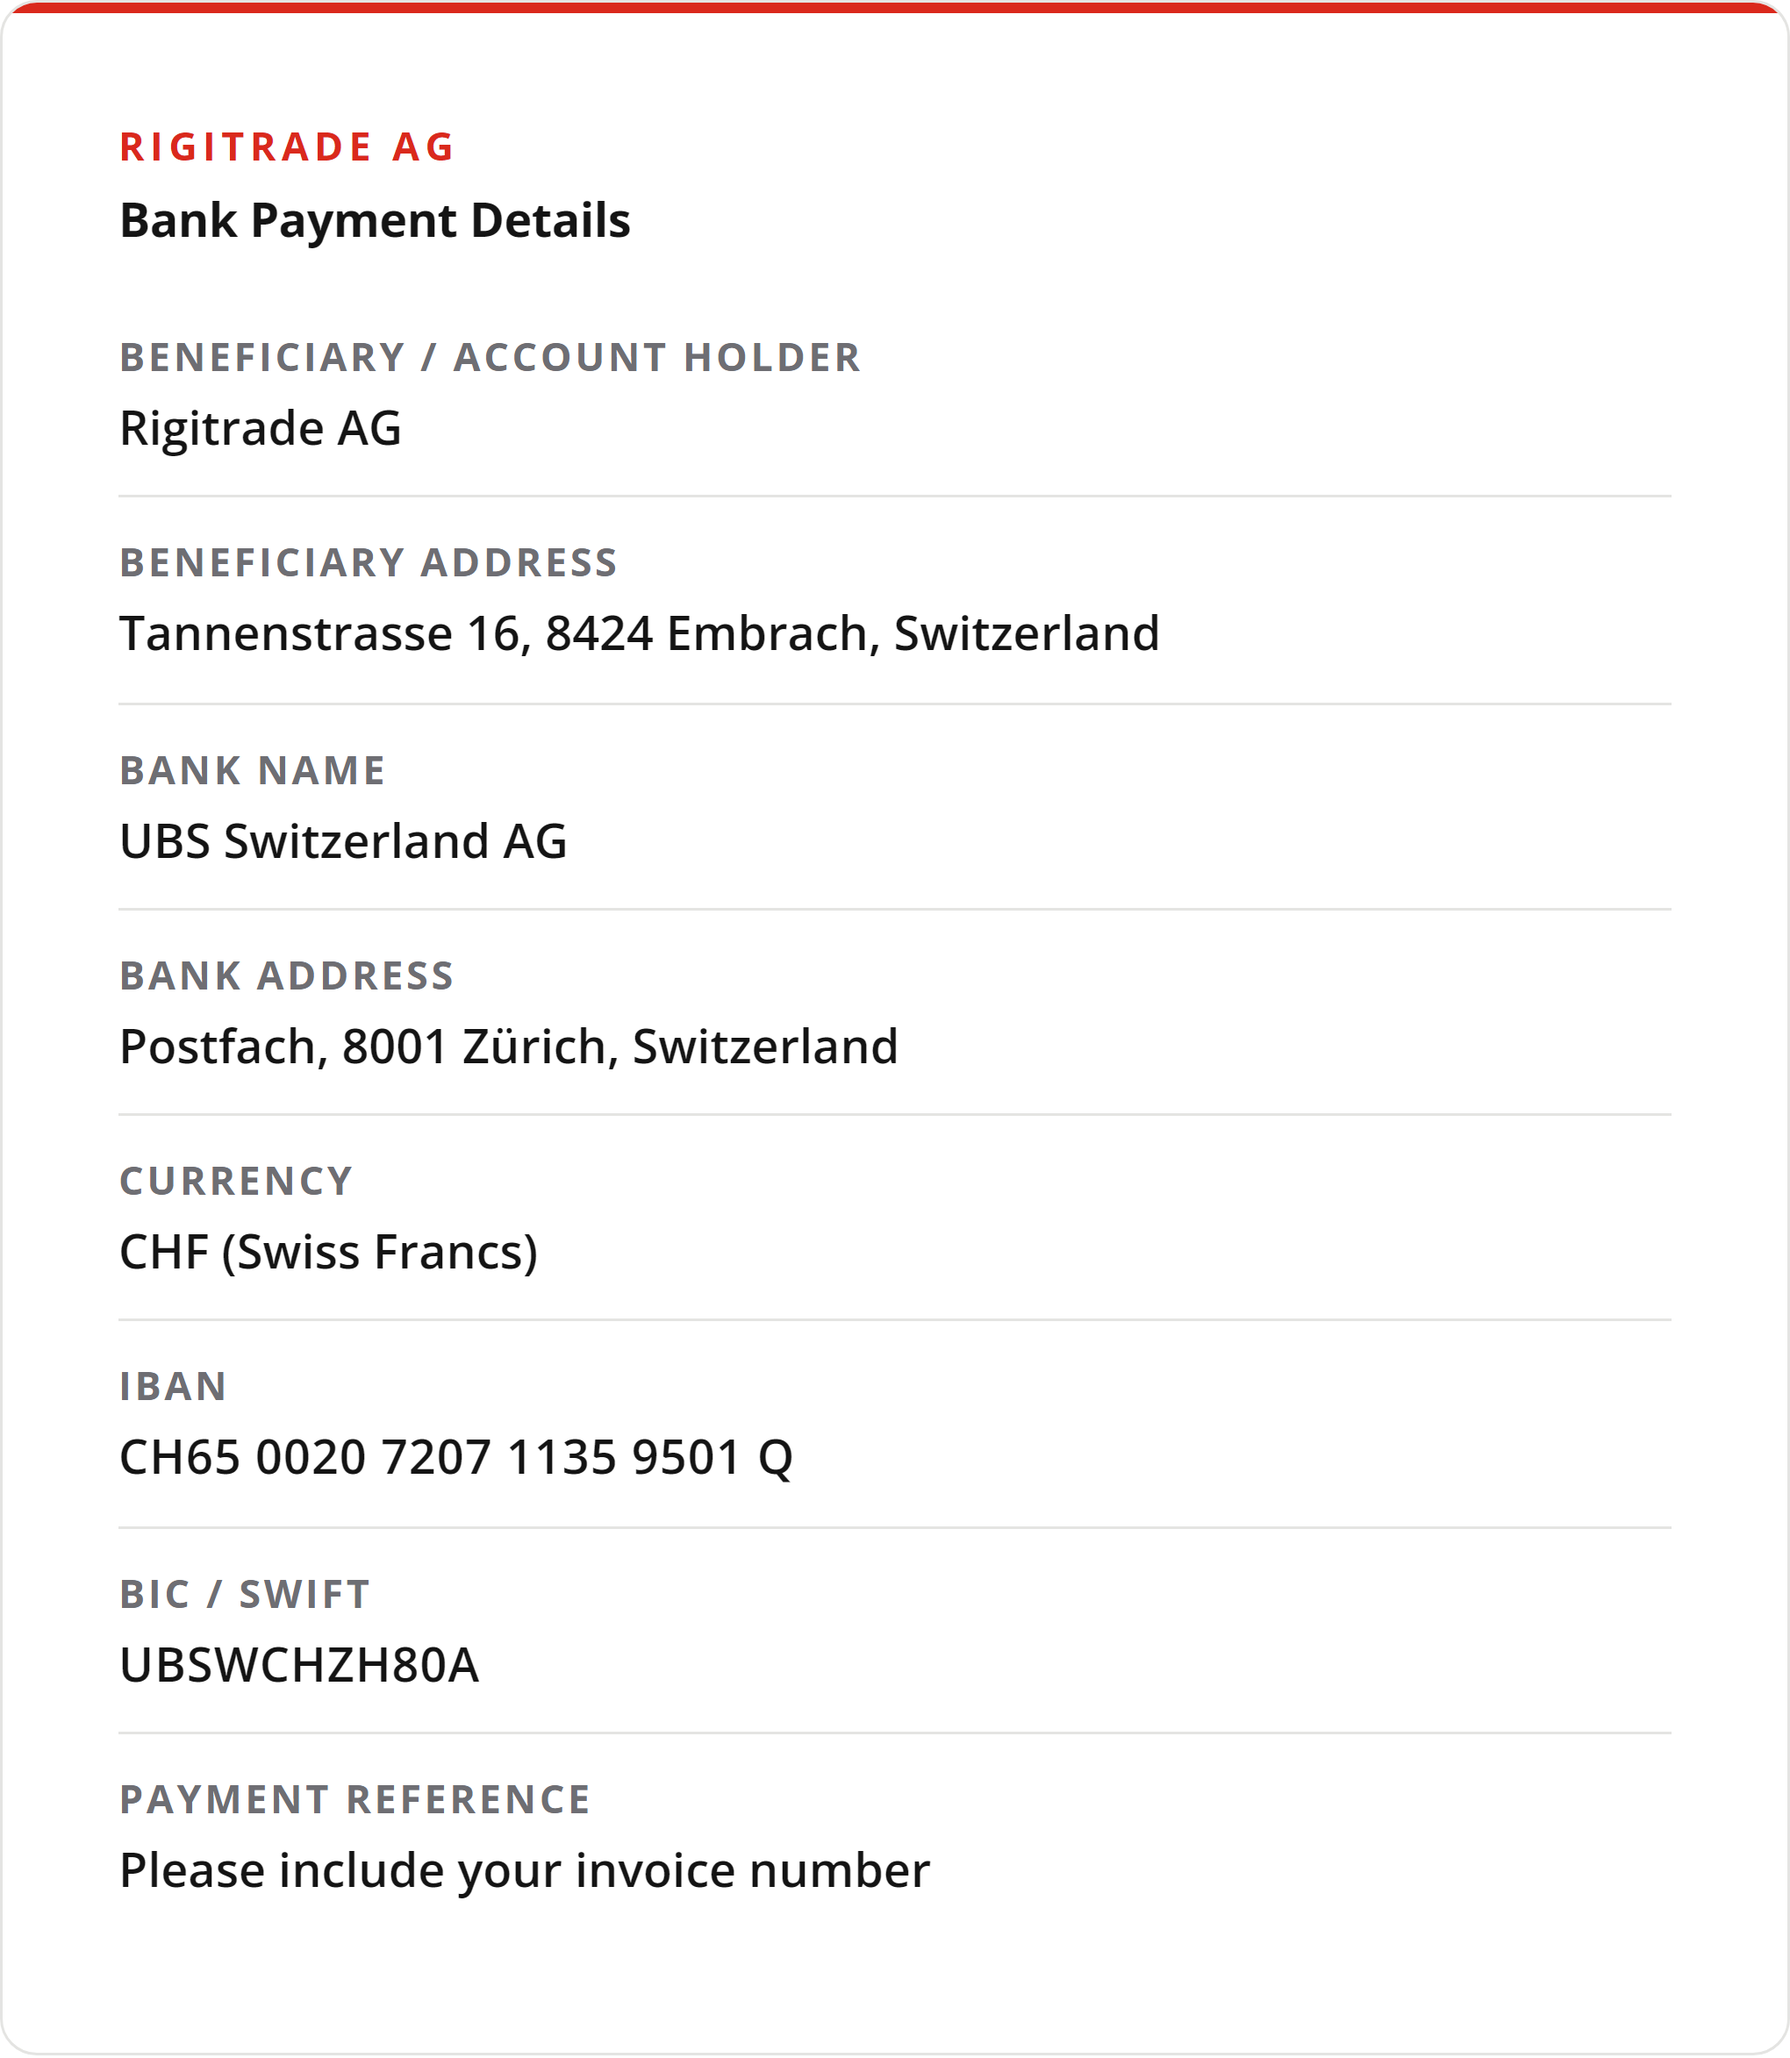
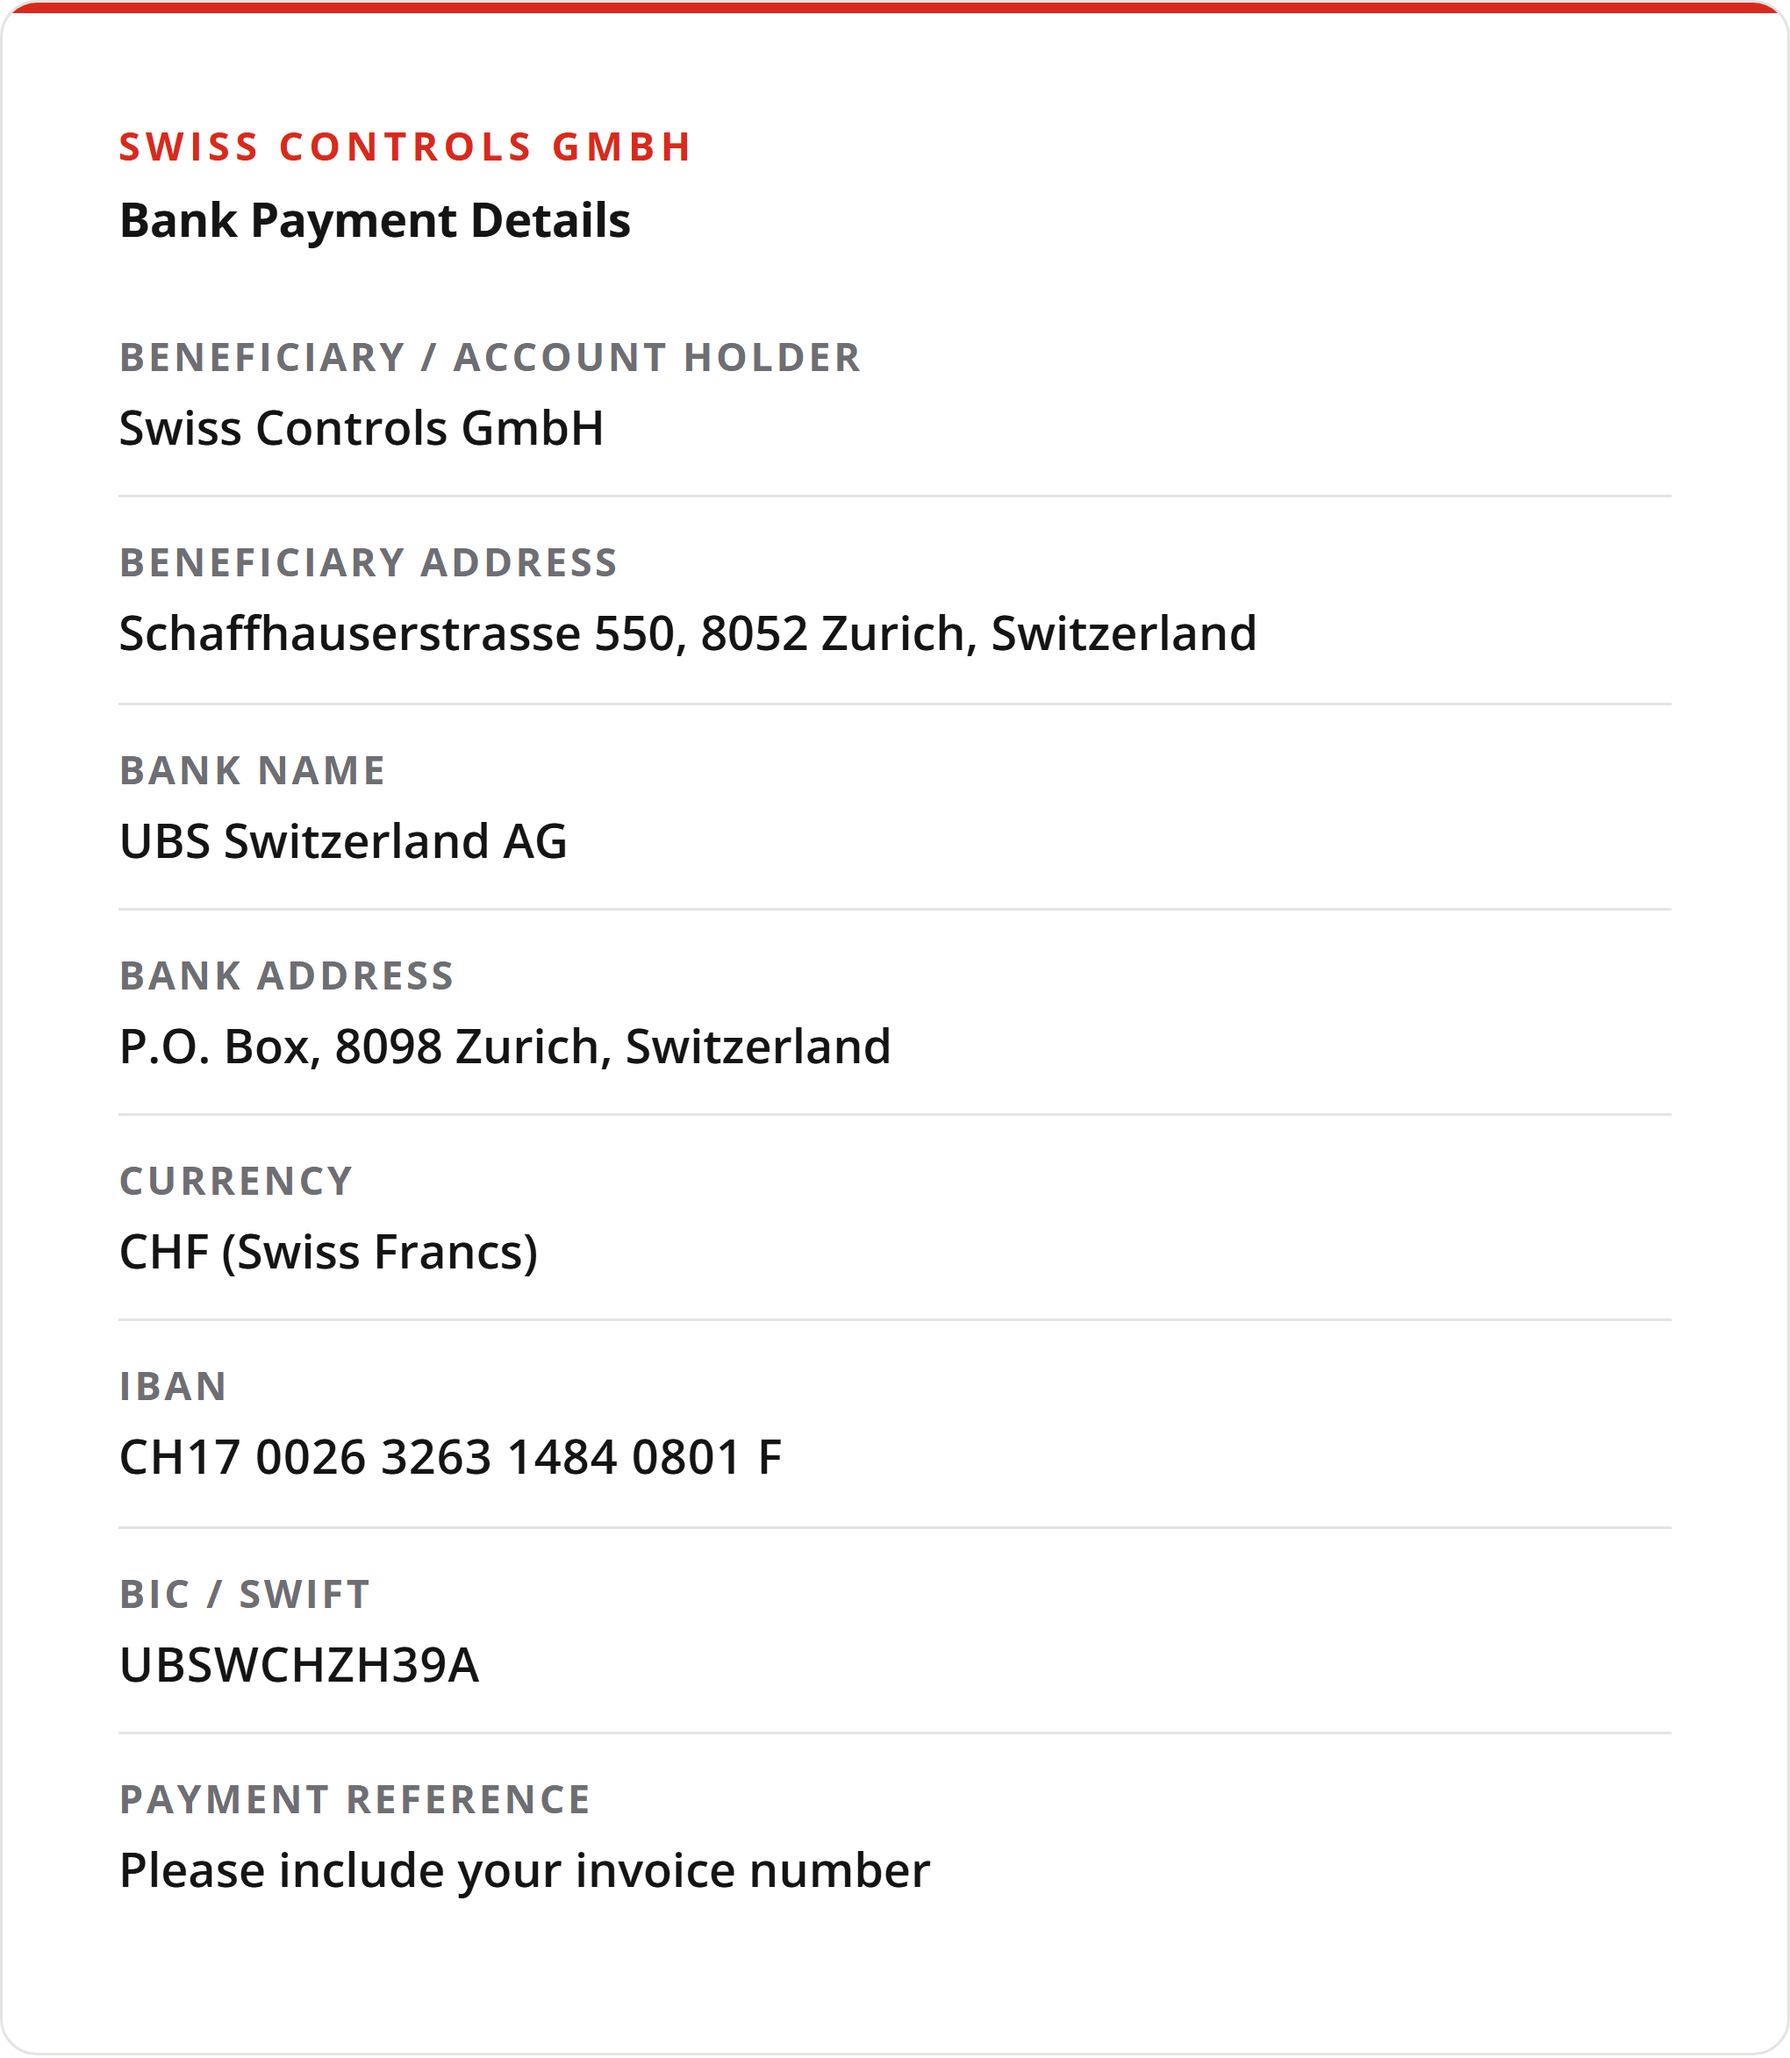
pay: bank details for Swiss Controls GmbH (UBS, CH17 0026 3263 1484 0801 F)

diff --git a/scripts/generate-pay-image.ts b/scripts/generate-pay-image.ts
@@ -26,13 +26,13 @@ async function fontFace(weight: number): Promise<string> {
 
 // --- Source of truth for the rendered image ------------------------------------
 const DETAILS: Array<{ label: string; value: string; mono?: boolean }> = [
-  { label: "Beneficiary / Account Holder", value: "Rigitrade AG" },
-  { label: "Beneficiary Address", value: "Tannenstrasse 16, 8424 Embrach, Switzerland" },
+  { label: "Beneficiary / Account Holder", value: "Swiss Controls GmbH" },
+  { label: "Beneficiary Address", value: "Schaffhauserstrasse 550, 8052 Zurich, Switzerland" },
   { label: "Bank Name", value: "UBS Switzerland AG" },
-  { label: "Bank Address", value: "Postfach, 8001 Zürich, Switzerland" },
+  { label: "Bank Address", value: "P.O. Box, 8098 Zurich, Switzerland" },
   { label: "Currency", value: "CHF (Swiss Francs)" },
-  { label: "IBAN", value: "CH65 0020 7207 1135 9501 Q", mono: true },
-  { label: "BIC / SWIFT", value: "UBSWCHZH80A", mono: true },
+  { label: "IBAN", value: "CH17 0026 3263 1484 0801 F", mono: true },
+  { label: "BIC / SWIFT", value: "UBSWCHZH39A", mono: true },
   { label: "Payment Reference", value: "Please include your invoice number" },
 ]
 // -------------------------------------------------------------------------------
@@ -91,7 +91,7 @@ const buildHtml = (fontCss: string) => `<!doctype html>
   <div class="card" id="card">
     <div class="seam"></div>
     <div class="body">
-      <div class="eyebrow">Rigitrade AG</div>
+      <div class="eyebrow">Swiss Controls GmbH</div>
       <div class="title">Bank Payment Details</div>
       <div class="rows">${rows}</div>
     </div>
